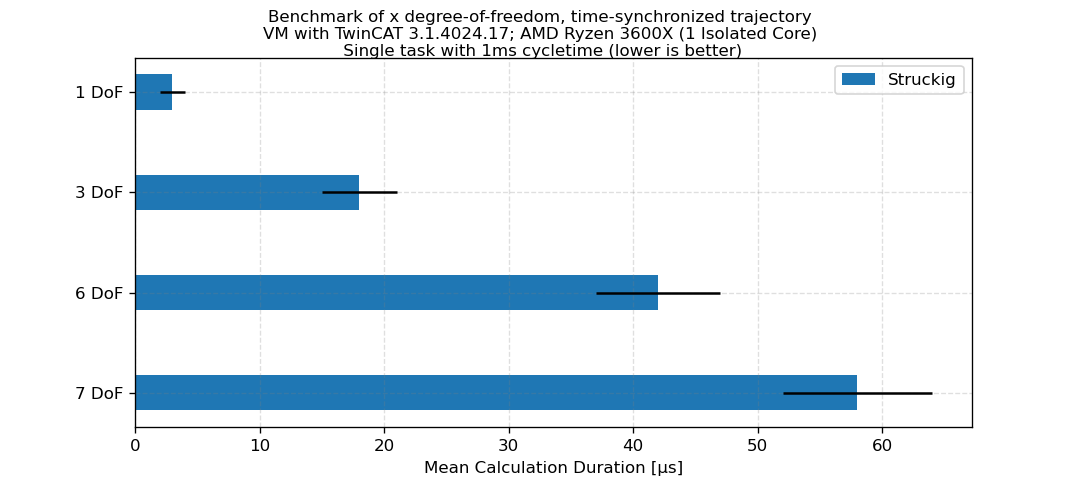
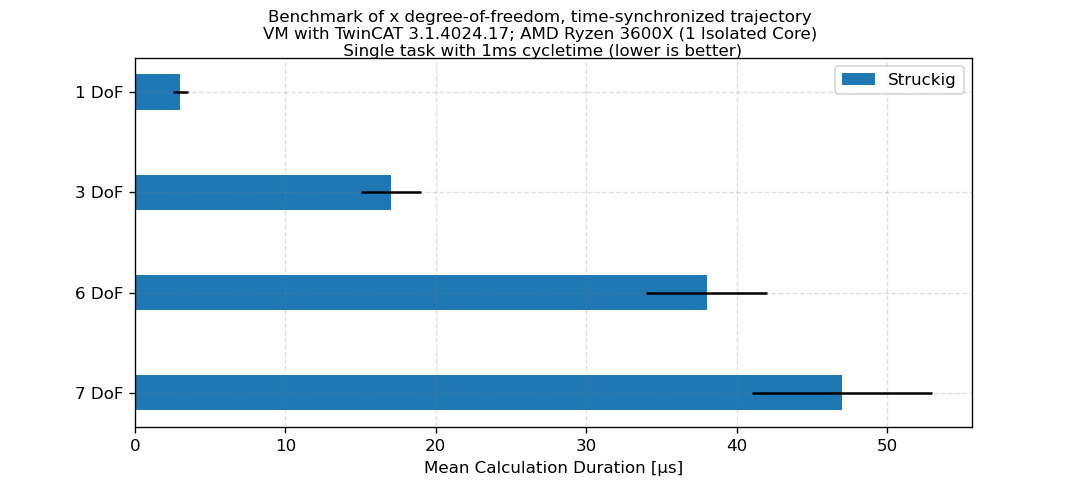
ported(cdeb2cb): profile precision as constant

diff --git a/benchmark/benchmark_plot.py b/benchmark/benchmark_plot.py
@@ -5,8 +5,8 @@ import numpy as np
 
 
 ticks = ('1 DoF', '3 DoF', '6 DoF', '7 DoF')
-struckig_average_mean = [3, 18, 42, 58]
-struckig_average_err = [1, 3, 5, 6]
+struckig_average_mean = [3, 17, 38, 47]
+struckig_average_err = [0.5, 2, 4, 6]
 
 y_pos = np.arange(len(ticks))
 height = 0.35
